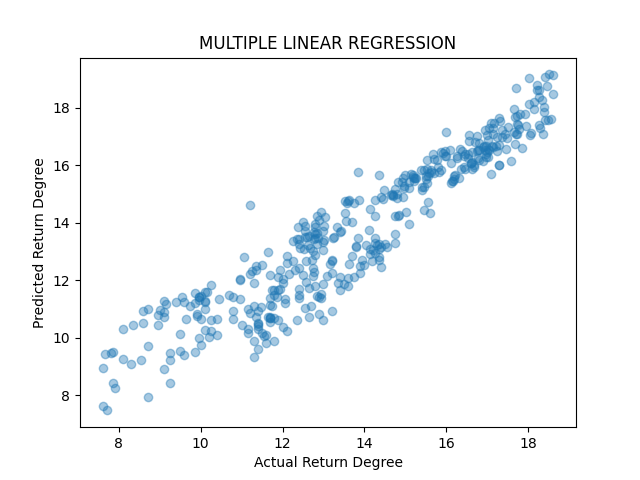
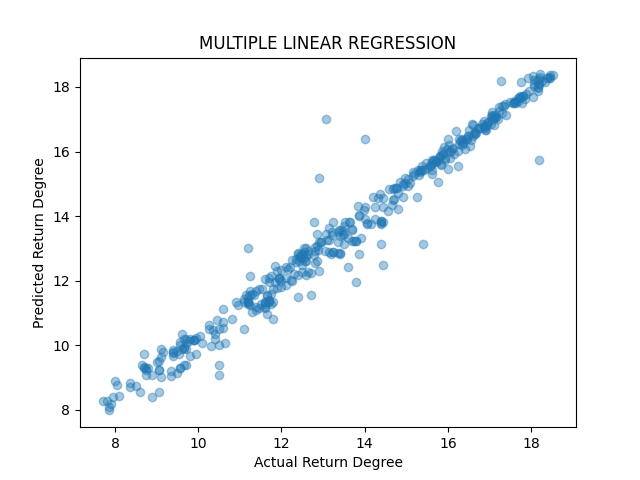
<add>Expect Return model

diff --git a/multi_linear_regressor.py b/multi_linear_regressor.py
@@ -1,3 +1,5 @@
+import joblib
+
 import pandas as pd
 import matplotlib.pyplot as plt
 
@@ -6,7 +8,7 @@ from sklearn.linear_model import LinearRegression
 
 df1 = pd.read_csv("augumentationed_data.csv", index_col=None)
 
-def return_degree_model(save=False):
+def return_degree_model(save=False, load=False):
     # df2 = pd.read_csv("degree_data.csv", index_col=None)
     df2 = pd.read_csv("real_temp.csv", index_col=None)
 
@@ -16,30 +18,46 @@ def return_degree_model(save=False):
     df = pd.merge(df1, df2, how='left')
     df['날짜'] = pd.to_datetime(df['날짜'])
     df = df[df['날짜'].dt.dayofweek <=4]
+
+    return_list = df['환수온도'].to_numpy().tolist()
+    last_list = [None for i in range(len(return_list))]
+    for i in range(1, len(return_list)):
+        last_list[i] = return_list[i-1]
+    df['Last_Return'] = last_list
+
     df = df.dropna()
 
     x = df.drop('환수온도', axis=1)
     y = df['환수온도']
+    if not load:
+        x_train, x_test, y_train, y_test = train_test_split(x, y, train_size=0.8, test_size=0.2)
 
-    x_train, x_test, y_train, y_test = train_test_split(x, y, train_size=0.8, test_size=0.2)
+        x_train1 = x_train.drop('날짜', axis=1)
+        x_test1 = x_test.drop('날짜', axis=1)
 
-    x_train1 = x_train.drop('날짜', axis=1)
-    x_test1 = x_test.drop('날짜', axis=1)
+        MLR = LinearRegression()
+        MLR.fit(x_train1, y_train)
 
-    MLR = LinearRegression()
-    MLR.fit(x_train1, y_train)
+        y_predict = MLR.predict(x_test1)
+        
 
-    y_predict = MLR.predict(x_test1)
+        plt.scatter(y_test, y_predict, alpha=0.4)
+        plt.xlabel("Actual Return Degree")
+        plt.ylabel("Predicted Return Degree")
+        plt.title("MULTIPLE LINEAR REGRESSION")
+        plt.savefig('Return_Degree_Result_with_Real_Temp.png')
 
-    plt.scatter(y_test, y_predict, alpha=0.4)
-    plt.xlabel("Actual Return Degree")
-    plt.ylabel("Predicted Return Degree")
-    plt.title("MULTIPLE LINEAR REGRESSION")
-    plt.savefig('Return_Degree_Result_with_Real_Temp.png')
-
-    print('R**2 : {}%'.format(round(1-(((y_test-y_predict)**2).sum()/((y_test-y_test.mean())**2).sum()), 4)*100))
+        print('R**2 : {}%'.format(round(1-(((y_test-y_predict)**2).sum()/((y_test-y_test.mean())**2).sum()), 4)*100))
+    
+    else:
+        MLR = joblib.load('ReturnDegreeModel.pkl')
+        x = x.drop('날짜', axis=1)
+        y_predict = MLR.predict(x)
+        
+        print('R**2 : {}%'.format(round(1-(((y-y_predict)**2).sum()/((y-y.mean())**2).sum()), 4)*100))
 
     if save:
+        joblib.dump(MLR, 'ReturnDegreeModel.pkl')
         result_df = pd.DataFrame()
         for x in x_test.columns:
             result_df[x] = x_test[x]
@@ -75,6 +93,7 @@ def temperature_model(save=False):
     print('R**2 : {}%'.format(round(1-(((y_test-y_predict)**2).sum()/((y_test-y_test.mean())**2).sum()), 4)*100))
 
     if save:
+        joblib.dump(MLR, 'TemperatureModel.pkl')
         result_df = pd.DataFrame()
         for x in x_test.columns:
             result_df[x] = x_test[x]
@@ -83,3 +102,46 @@ def temperature_model(save=False):
         result_df['pred_temp'] = y_predict
 
         result_df.to_csv("Temp_Model_Result.csv", index=None, encoding='cp949')
+    
+def q_model():
+    df2 = pd.read_csv("temperature.csv", index_col=None)
+    df = pd.merge(df1, df2, how='left')
+
+    buildings = ['공과대학', 
+                 '공동실험실습관', 
+                 '교수회관', 
+                 '대학본부', 
+                 '도서관', 
+                 '동북아경제통상', 
+                 '복지회관', 
+                 '사회법과대학', 
+                 '예체능대학', 
+                 '인문대학', 
+                 '자연대학', 
+                 '정보기술대학', 
+                 '정보전산원', 
+                 '컨벤션센터', 
+                 '학생복지회관']
+
+    total_wf = 16000
+    wf = [3986.28, 1209.48, 848.66, 1259.43, 1531.40, 863.21, 1151.27, 102.52, 435.12, 935.72, 2013.41, 1212.51, 211.61, 481.76, 593.70]
+    building_data = {}
+
+    for b, w in zip(buildings, wf):
+        building_data[b] = total_wf*w/sum(wf)
+    
+    for b in buildings:
+        df[b+'_Wf'] = building_data[b]
+        x = df[[b+'_Wf', b+'_supply', '온도']]
+        y = df[b+'_return']
+
+        x_train, x_test, y_train, y_test = train_test_split(x, y, train_size=0.8, test_size=0.2)
+
+        MLR = LinearRegression()
+        MLR.fit(x_train, y_train)
+
+        y_predict = MLR.predict(x_test)
+
+
+        print('{} R**2 : {}%'.format(b, round(1-(((y_test-y_predict)**2).sum()/((y_test-y_test.mean())**2).sum()), 4)*100))
+q_model()

diff --git a/simulator.py b/simulator.py
@@ -1,0 +1,32 @@
+from datetime import datetime, timedelta
+import pandas as pd
+import numpy as np
+import math
+
+header = ['대학본부', '교수회관', '정보전산원', '자연대학', '도서관', '정보기술대학', '공과대학', '공동실험실습관', '사회법과대학', '인문대학', '동북아경제통상', '컨벤션센터', '예체능대학', '학생복지회관', '복지회관']
+
+start_date = '2021-06-01'
+start_date = datetime.strptime(start_date, '%Y-%m-%d').date()
+
+s_r_degree = {}
+for h in header:
+    s_r_degree[h] = {}
+    s_r_degree[h]['날짜'] = []
+    s_r_degree[h]['supply'] = []
+    s_r_degree[h]['return'] = []
+
+for i in range(31):
+    df = pd.read_excel('Report\\{}.xls'.format(start_date), sheet_name='Sheet1').to_numpy()[6:30, :].tolist()
+    for d in df:
+        for i in range(15):
+            s_r_degree[header[i]]['날짜'].append(str(start_date)+' '+str(d[0]))
+            s_r_degree[header[i]]['return'].append(d[i*10+4])
+            s_r_degree[header[i]]['supply'].append(d[i*10+5])
+    start_date += timedelta(days=1)
+
+for data in s_r_degree:
+    df = pd.DataFrame(s_r_degree[data])
+    df.to_csv("{}.csv".format(data), index=None)
+
+# for i in range(30):
+#     df
